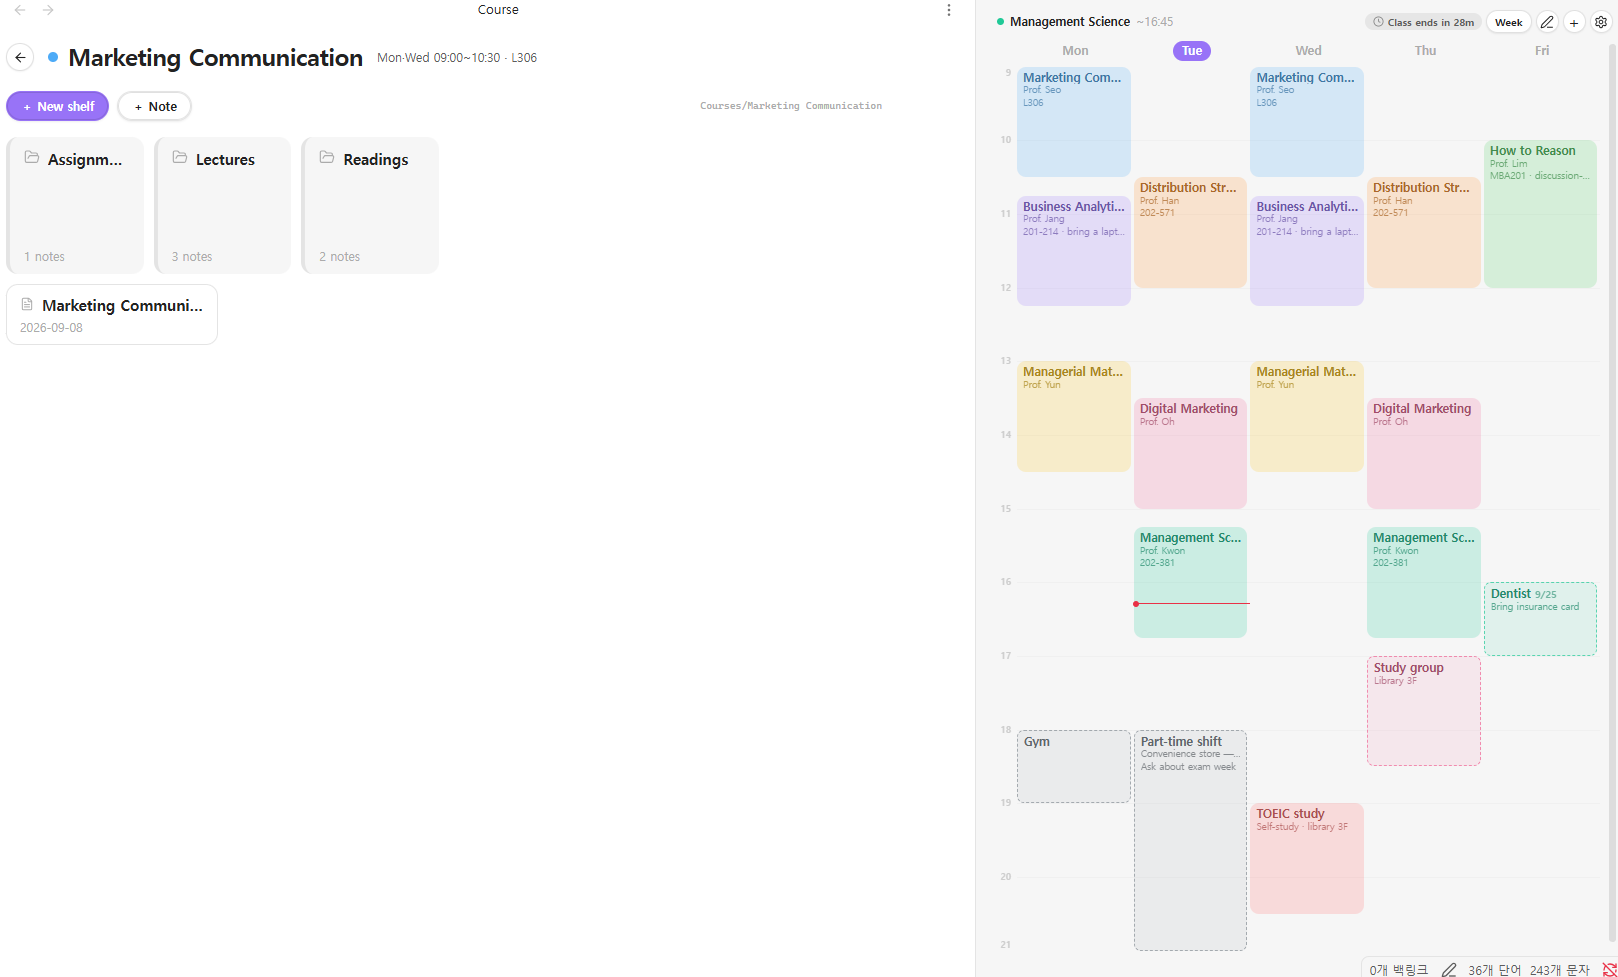
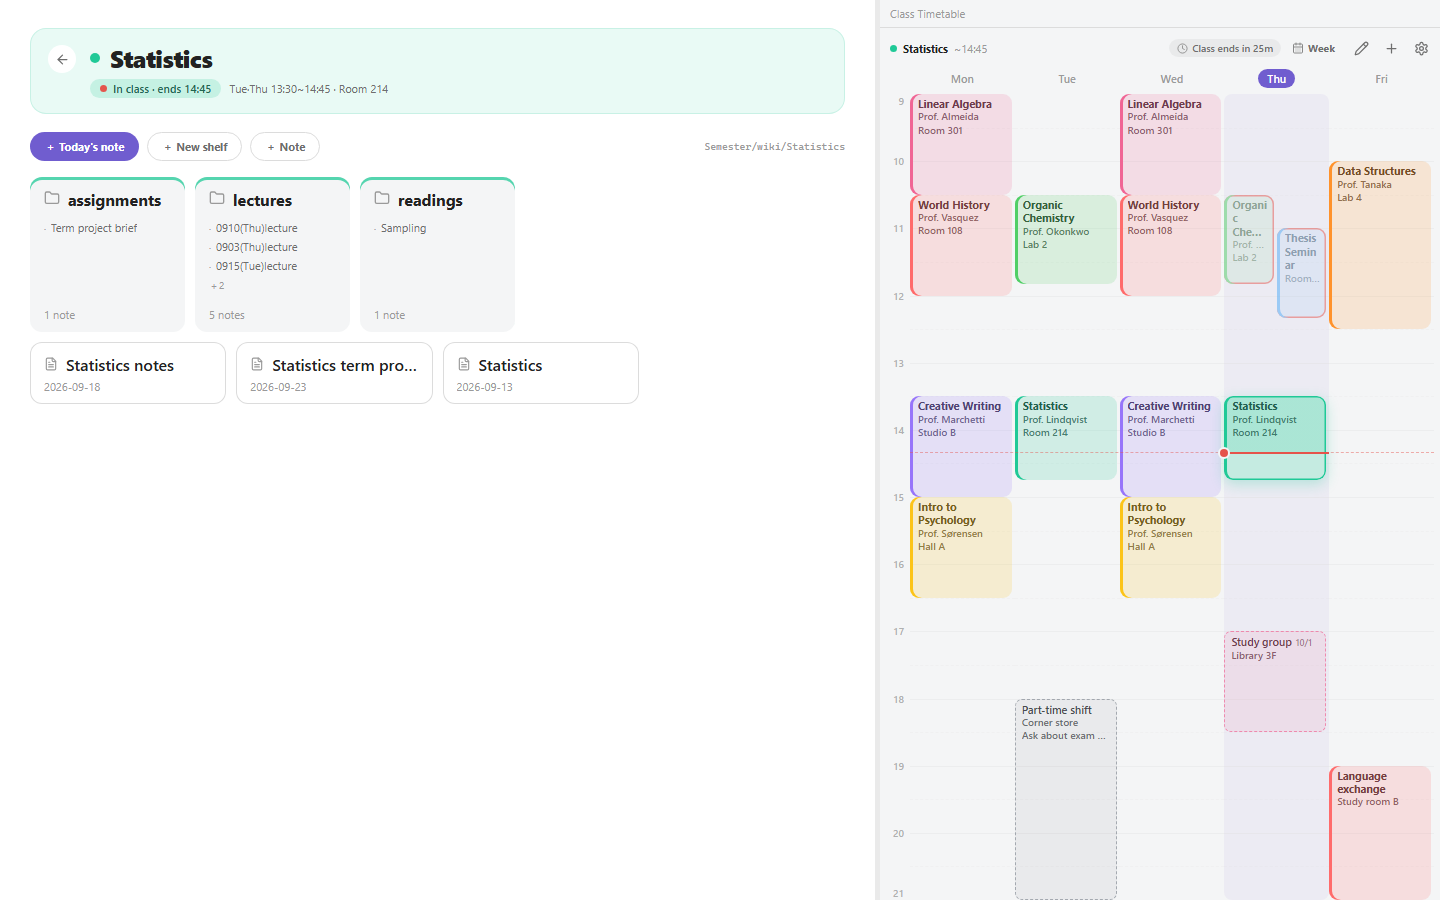
README 이미지를 1.1 화면으로 바꾼다
네 장 모두 1.1 의 화면으로 다시 찍는다 — 수업 블록의 색 띠, 수업 중 강조와
흐려진 지난 수업, 책장 머리의 "수업 중" 알약과 "오늘 노트" 버튼.

브라우저 데모에서 찍었다. 릴리스와 같은 main.js · styles.css 이고, 과목·교수·
강의실은 전부 지어낸 것이다. 시각은 목요일 14:20 에 고정했다. 예전 캡처에
섞여 있던 한국어 상태바("0개 백링크")도 함께 빠진다.

- shelves.gif: 같은 흐름(시간표 → 책장 → lectures), 같은 1040×600 · 33프레임.
  프레임마다 파일 날짜가 바뀌어 깜빡이지 않게 고정했다. 1.3MB → 99KB
- sidebar.png: 2배 해상도로, 수업 중인 사이드바
- shelf.png · today.png: 1440×900

diff --git a/README.md b/README.md
@@ -5,7 +5,7 @@ mobile.** And a way into the notes behind each class.
 
 Class times are stored in your notes' own frontmatter, not in plugin settings. Rename a folder, move a note, or edit the YAML by hand: the timetable follows. Nothing lives in a place Obsidian can't see.
 
-![A week of classes in the sidebar, mid-lecture with 27 minutes left. Clicking the class in progress opens its shelves — drafts, lectures, readings — and clicking lectures lists that course's notes](docs/shelves.gif)
+![A week of classes in the sidebar, mid-lecture with 25 minutes left. Clicking the class in progress opens its shelves — assignments, lectures, readings — and clicking lectures lists that course's notes](docs/shelves.gif)
 
 ### [▶ Try it in your browser — no install](https://elliott-json-park.github.io/obsidian-class-timetable/)
 
@@ -19,11 +19,11 @@ Or install **Class Timetable** from Settings → Community plugins.
 
 **A timetable in the sidebar.** Real clock times on the vertical axis, not period numbers. Overlapping classes split the column instead of hiding each other. The current time is marked, and the top bar counts down to the end of the class you're in — or to whatever comes next. When the day is done it says so instead of counting.
 
-<img src="docs/sidebar.png" width="420" alt="A class block showing its schedule, professor and where new notes go">
+<img src="docs/sidebar.png" width="420" alt="The timetable mid-lecture: the class in progress outlined, earlier classes today dimmed, and a countdown to the end of class">
 
 **Click a class, get its shelves.** Obsidian can't "open a folder", so the plugin opens a view of one: the folders belonging to that class, laid out like a bookshelf. Square cards are folders, wide cards are files. Create, rename and delete them right there — names are typed in place, on the card itself.
 
-![The shelf view for one course](docs/shelf.png)
+![The shelf view for one course, in class now — Today's note, its shelves and notes](docs/shelf.png)
 
 **Start today's note in one step.** Right-click a class → *Create a note*, press *Today's note* on its shelves, or bind a hotkey to *Create today's note for the current class*. The file name and body come from a template you define (`{{course}}`, `{{date:MMDD}}`, `{{dow}}`, `{{week}}` …). If today's note already exists, it opens instead of being overwritten.
 
